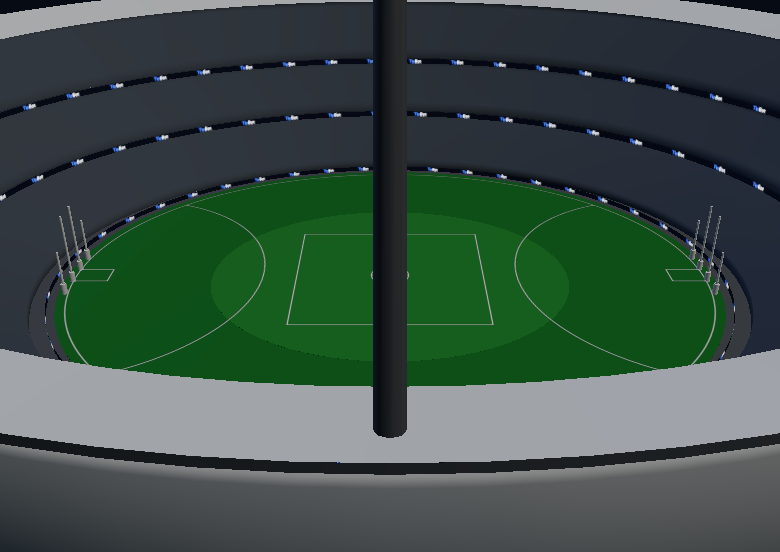
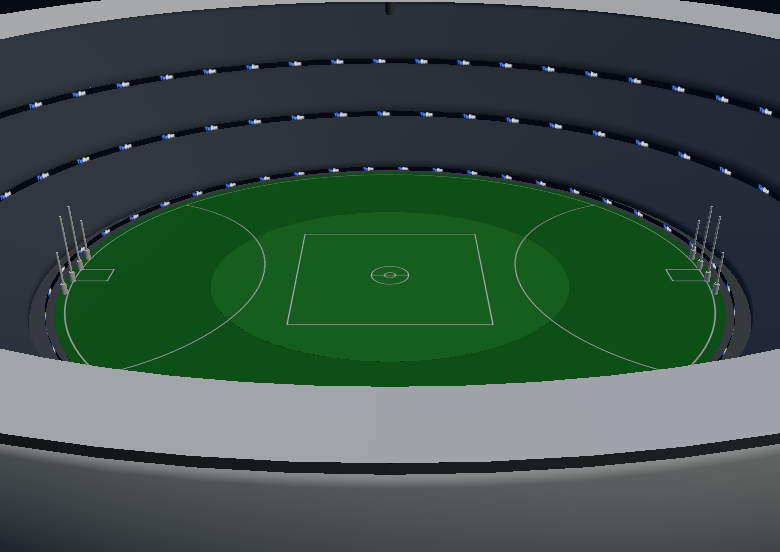
Hide the floodlight the camera was looking through.
That near tower stood on the lens axis and drew a black pole down the middle of the ground.

diff --git a/assets/mcg/mount.js b/assets/mcg/mount.js
@@ -26,6 +26,24 @@ function nightNow(opts) {
   return true;
 }
 
+// The camera looks through the near floodlight. Its mast is a black pole
+// down the middle of the ground, so that tower stays off.
+function hideTowerOnLens(scene, camera) {
+  var nearest = null;
+  var nearestD = Infinity;
+  scene.traverse(function (o) {
+    if (!/^LightTower\d$/.test(o.name)) return;
+    var p = new T.Vector3();
+    o.getWorldPosition(p);
+    var d = p.distanceTo(camera.position);
+    if (d < nearestD) {
+      nearestD = d;
+      nearest = o;
+    }
+  });
+  if (nearest && nearestD < 180) nearest.visible = false;
+}
+
 function ensureFallback(host) {
   var img = host.querySelector(".fl-mcg-fallback");
   if (!img) {
@@ -188,6 +206,7 @@ export async function mount(host, opts) {
     scene.add(gltf.scene);
     try { upgradeStands(scene, night); } catch (e1) {}
     try { upgradeTowers(scene, night); } catch (e2) {}
+    try { hideTowerOnLens(scene, camera); } catch (eTower) {}
     try { addGround(scene); } catch (e3) {}
     var boards = null;
     try {
